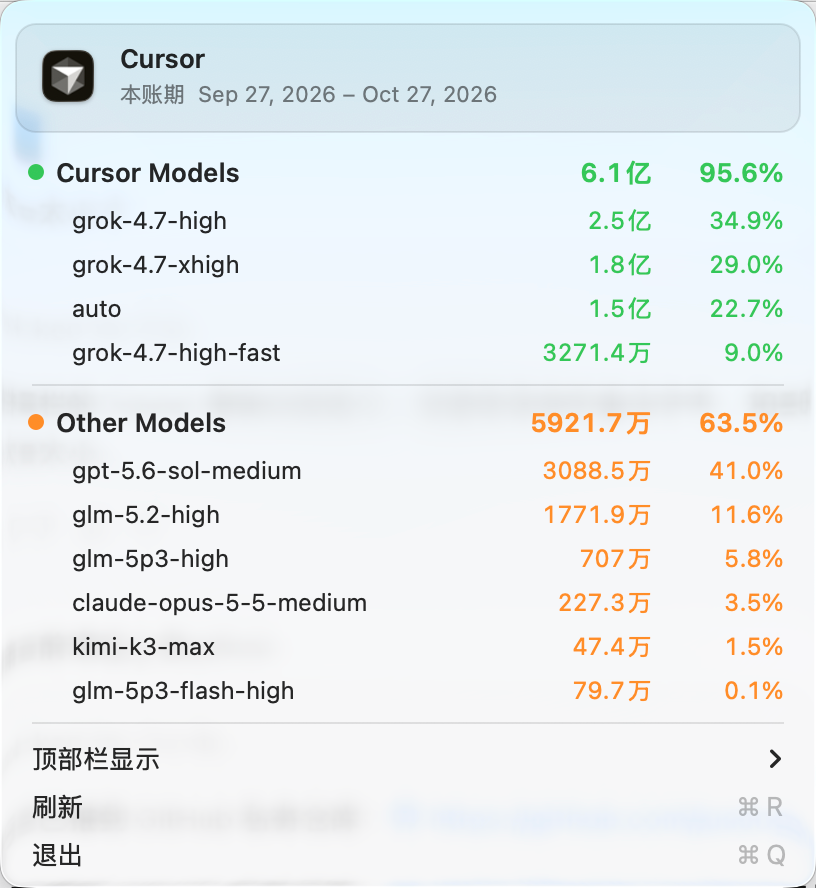
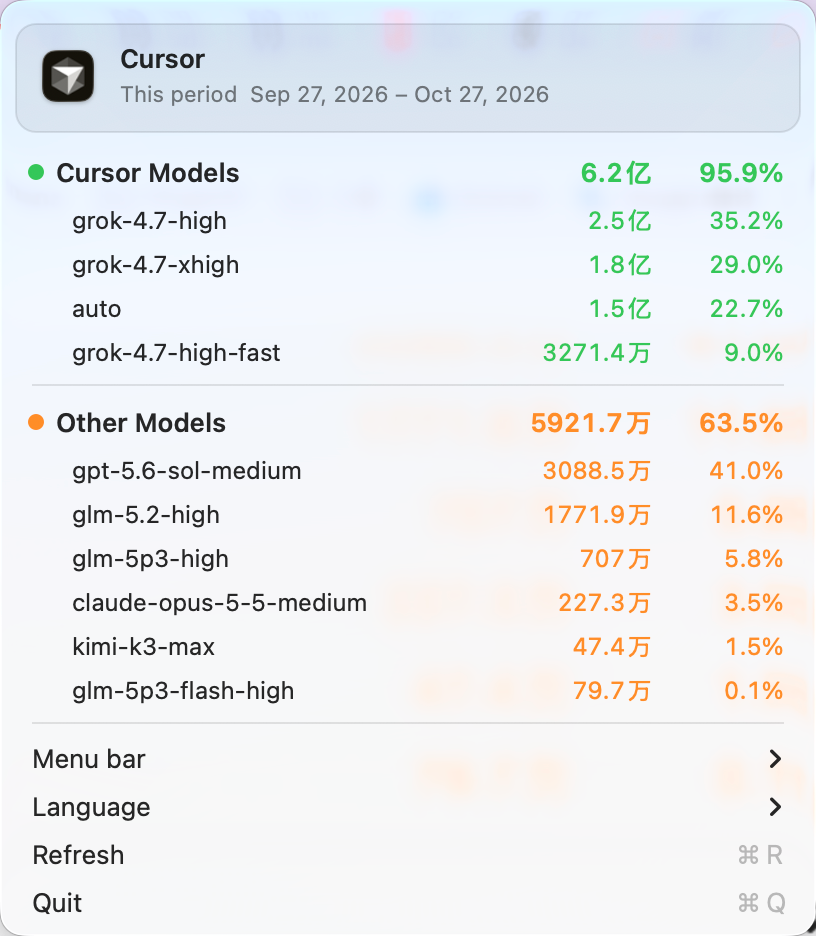
Add a Chinese and English menu and refresh the usage screenshot.

diff --git a/Sources/CursorUsageBar/main.swift b/Sources/CursorUsageBar/main.swift
@@ -8,6 +8,7 @@ final class UsageBoard: NSObject {
     private let columnsView = StatusColumnsView()
     private let menu = NSMenu()
     private var mode = DisplayMode(stored: UserDefaults.standard.string(forKey: "displayMode"))
+    private var language = AppLanguage.stored(UserDefaults.standard.string(forKey: AppLanguage.storageKey))
     private var phase: Phase = .loading
     private var refreshing = false
     private var timer: Timer?
@@ -112,7 +113,7 @@ final class UsageBoard: NSObject {
     private func renderTitle() {
         switch phase {
         case .signedOut:
-            columnsView.plain = "未登录"
+            columnsView.plain = language.text(.signedOut)
             columnsView.columns = []
         case .loading, .failed:
             columnsView.plain = nil
@@ -163,28 +164,29 @@ final class UsageBoard: NSObject {
         menu.removeAllItems()
         switch phase {
         case .loading:
-            addHeader(period: nil, message: "正在读取用量", warning: nil, to: menu)
+            addHeader(period: nil, message: language.text(.loading), warning: nil, to: menu)
         case .signedOut:
-            addHeader(period: nil, message: "请先打开 Cursor 并登录", warning: nil, to: menu)
+            addHeader(period: nil, message: language.text(.signInFirst), warning: nil, to: menu)
         case .failed:
-            addHeader(period: nil, message: "用量暂时拉不下来", warning: nil, to: menu)
+            addHeader(period: nil, message: language.text(.unavailable), warning: nil, to: menu)
         case .stale(let snapshot, let failedAt):
-            addSnapshot(snapshot, warning: "\(clock.string(from: failedAt)) 刷新失败，下面仍是上次的用量", to: menu)
+            addSnapshot(snapshot, warning: language.text(.refreshFailed(clock.string(from: failedAt))), to: menu)
         case .partial(let period):
             addHeader(period: cycle(period.cycleStart, period.cycleEnd), message: nil, warning: nil, to: menu)
             addLine(UsageLine(name: "Cursor Models", tokens: nil, percent: UsageText.detailPercent(period.cursorPercent), kind: .pool, tint: .cursor), to: menu)
             menu.addItem(.separator())
             addLine(UsageLine(name: "Other Models", tokens: nil, percent: UsageText.detailPercent(period.otherPercent), kind: .pool, tint: .other), to: menu)
-            addLine(UsageLine(name: "模型明细暂时不可用", tokens: nil, percent: nil, kind: .note), to: menu)
+            addLine(UsageLine(name: language.text(.modelsUnavailable), tokens: nil, percent: nil, kind: .note), to: menu)
         case .ready(let snapshot):
             addSnapshot(snapshot, warning: nil, to: menu)
         }
         menu.addItem(.separator())
         menu.addItem(displayMenu)
-        let refreshItem = NSMenuItem(title: "刷新", action: #selector(refreshNow), keyEquivalent: "r")
+        menu.addItem(languageMenu)
+        let refreshItem = NSMenuItem(title: language.text(.refresh), action: #selector(refreshNow), keyEquivalent: "r")
         refreshItem.target = self
         menu.addItem(refreshItem)
-        let quitItem = NSMenuItem(title: "退出", action: #selector(quit), keyEquivalent: "q")
+        let quitItem = NSMenuItem(title: language.text(.quit), action: #selector(quit), keyEquivalent: "q")
         quitItem.target = self
         menu.addItem(quitItem)
     }
@@ -205,7 +207,7 @@ final class UsageBoard: NSObject {
             tint: tint
         ), to: menu)
         if pool.models.isEmpty {
-            addLine(UsageLine(name: "这个账期没有用量", tokens: nil, percent: nil, kind: .note), to: menu)
+            addLine(UsageLine(name: language.text(.noUsage), tokens: nil, percent: nil, kind: .note), to: menu)
             return
         }
         for model in pool.models {
@@ -221,7 +223,7 @@ final class UsageBoard: NSObject {
 
     private func addHeader(period: String?, message: String?, warning: String?, to menu: NSMenu) {
         let item = NSMenuItem()
-        item.view = PeriodHeaderView(period: period, message: message, warning: warning)
+        item.view = PeriodHeaderView(period: period, periodLabel: language.text(.thisPeriod), message: message, warning: warning)
         menu.addItem(item)
     }
 
@@ -236,18 +238,36 @@ final class UsageBoard: NSObject {
     }
 
     private var displayMenu: NSMenuItem {
-        let root = NSMenuItem(title: "顶部栏显示", action: nil, keyEquivalent: "")
+        let root = NSMenuItem(title: language.text(.menuBarDisplay), action: nil, keyEquivalent: "")
         let submenu = NSMenu()
         let choices: [(String, DisplayMode)] = [
-            ("百分比", .percent),
-            ("百分比和 token", .percentAndTokens),
-            ("仅 token", .tokens),
+            (language.text(.percent), .percent),
+            (language.text(.percentAndTokens), .percentAndTokens),
+            (language.text(.tokensOnly), .tokens),
         ]
         for (title, value) in choices {
             let item = NSMenuItem(title: title, action: #selector(selectMode(_:)), keyEquivalent: "")
             item.target = self
             item.representedObject = value.rawValue
             item.state = value == mode ? .on : .off
+            submenu.addItem(item)
+        }
+        root.submenu = submenu
+        return root
+    }
+
+    private var languageMenu: NSMenuItem {
+        let root = NSMenuItem(title: language.text(.language), action: nil, keyEquivalent: "")
+        let submenu = NSMenu()
+        let choices: [(String, AppLanguage)] = [
+            ("中文", .chinese),
+            ("English", .english),
+        ]
+        for (title, value) in choices {
+            let item = NSMenuItem(title: title, action: #selector(selectLanguage(_:)), keyEquivalent: "")
+            item.target = self
+            item.representedObject = value.rawValue
+            item.state = value == language ? .on : .off
             submenu.addItem(item)
         }
         root.submenu = submenu
@@ -267,6 +287,14 @@ final class UsageBoard: NSObject {
         sender.menu?.items.forEach { $0.state = .off }
         sender.state = .on
         renderTitle()
+    }
+
+    @objc private func selectLanguage(_ sender: NSMenuItem) {
+        guard let raw = sender.representedObject as? String else { return }
+        language = AppLanguage.stored(raw)
+        UserDefaults.standard.set(language.rawValue, forKey: AppLanguage.storageKey)
+        renderTitle()
+        populate()
     }
 
     @objc private func refreshNow() {
@@ -302,9 +330,9 @@ if CommandLine.arguments.contains("--dump") {
         let result = await UsageBoard.load()
         switch result {
         case .signedOut:
-            print("未登录")
+            print(AppLanguage.stored(UserDefaults.standard.string(forKey: AppLanguage.storageKey)).text(.signedOut))
         case .periodFailed:
-            print("用量暂时拉不下来")
+            print(AppLanguage.stored(UserDefaults.standard.string(forKey: AppLanguage.storageKey)).text(.unavailable))
         case .eventsFailed(let period):
             print(UsageText.menuBar(
                 cursorPercent: period.cursorPercent,
@@ -313,7 +341,7 @@ if CommandLine.arguments.contains("--dump") {
                 otherTokens: nil,
                 mode: .percent
             ))
-            print("模型明细暂时不可用")
+            print(AppLanguage.stored(UserDefaults.standard.string(forKey: AppLanguage.storageKey)).text(.modelsUnavailable))
         case .ready(let snapshot):
             print(UsageText.menuBar(snapshot, mode: .percent))
             print(UsageText.menuBar(snapshot, mode: .percentAndTokens))

diff --git a/Sources/CursorUsageBar/Language.swift b/Sources/CursorUsageBar/Language.swift
@@ -1,0 +1,71 @@
+import Foundation
+
+enum AppLanguage: String {
+    case chinese = "zh"
+    case english = "en"
+
+    static let storageKey = "language"
+
+    static func stored(_ raw: String?) -> AppLanguage {
+        if let raw, let language = AppLanguage(rawValue: raw) {
+            return language
+        }
+        let preferred = Locale.preferredLanguages.first ?? "en"
+        return preferred.hasPrefix("zh") ? .chinese : .english
+    }
+
+    func text(_ key: Key) -> String {
+        switch key {
+        case .signedOut:
+            return self == .chinese ? "未登录" : "Not signed in"
+        case .loading:
+            return self == .chinese ? "正在读取用量" : "Loading usage"
+        case .signInFirst:
+            return self == .chinese ? "请先打开 Cursor 并登录" : "Open Cursor and sign in first"
+        case .unavailable:
+            return self == .chinese ? "用量暂时拉不下来" : "Usage is unavailable right now"
+        case .refreshFailed(let time):
+            return self == .chinese
+                ? "\(time) 刷新失败，下面仍是上次的用量"
+                : "\(time) refresh failed. Showing the last usage."
+        case .modelsUnavailable:
+            return self == .chinese ? "模型明细暂时不可用" : "Model details are unavailable"
+        case .noUsage:
+            return self == .chinese ? "这个账期没有用量" : "No usage this period"
+        case .thisPeriod:
+            return self == .chinese ? "本账期" : "This period"
+        case .menuBarDisplay:
+            return self == .chinese ? "顶部栏显示" : "Menu bar"
+        case .percent:
+            return self == .chinese ? "百分比" : "Percent"
+        case .percentAndTokens:
+            return self == .chinese ? "百分比和 token" : "Percent and tokens"
+        case .tokensOnly:
+            return self == .chinese ? "仅 token" : "Tokens only"
+        case .refresh:
+            return self == .chinese ? "刷新" : "Refresh"
+        case .quit:
+            return self == .chinese ? "退出" : "Quit"
+        case .language:
+            return self == .chinese ? "语言" : "Language"
+        }
+    }
+
+    enum Key {
+        case signedOut
+        case loading
+        case signInFirst
+        case unavailable
+        case refreshFailed(String)
+        case modelsUnavailable
+        case noUsage
+        case thisPeriod
+        case menuBarDisplay
+        case percent
+        case percentAndTokens
+        case tokensOnly
+        case refresh
+        case quit
+        case language
+    }
+}

diff --git a/Sources/CursorUsageBar/MenuChrome.swift b/Sources/CursorUsageBar/MenuChrome.swift
@@ -204,12 +204,14 @@ final class StatusColumnsView: NSView {
 
 final class PeriodHeaderView: NSView {
     private let period: String?
+    private let periodLabel: String?
     private let message: String?
     private let warning: String?
     private let icon: NSImage
 
-    init(period: String?, message: String?, warning: String?) {
+    init(period: String?, periodLabel: String?, message: String?, warning: String?) {
         self.period = period
+        self.periodLabel = periodLabel
         self.message = message
         self.warning = warning
         icon = Mark.cursorIcon(pointSize: 32)
@@ -245,7 +247,10 @@ final class PeriodHeaderView: NSView {
         ])
         title.draw(in: NSRect(x: textX, y: plate.minY + 9, width: textWidth, height: 18))
 
-        let subtitle = period.map { "本账期  \($0)" } ?? (message ?? "")
+        let subtitle = period.map { range in
+            guard let periodLabel, !periodLabel.isEmpty else { return range }
+            return "\(periodLabel)  \(range)"
+        } ?? (message ?? "")
         let subtitleText = NSAttributedString(string: subtitle, attributes: [
             .font: NSFont.systemFont(ofSize: 11, weight: .regular),
             .foregroundColor: NSColor.secondaryLabelColor,

diff --git a/README.md b/README.md
@@ -8,7 +8,7 @@ Cursor Models and Other Models sit side by side. The name is on top and the numb
 
 ![Usage menu](docs/screenshots/usage-menu.png)
 
-The menu is in Chinese. `default` from the API is shown as `auto`.
+Switch the menu between Chinese and English from **语言** / **Language**. Until you choose, it follows the system language. `default` from the API is shown as `auto`. Token amounts stay in 万 / 亿 so they match the billing page.
 
 ## Requirements
 
@@ -33,7 +33,7 @@ The app does not appear in the Dock. After you quit it from the menu, open `Curs
 
 ## Menu bar
 
-Choose the detail level from **顶部栏显示**. The choice is remembered.
+Choose the detail level from **顶部栏显示** / **Menu bar**. The choice is remembered.
 
 | Mode | Example |
 | --- | --- |
